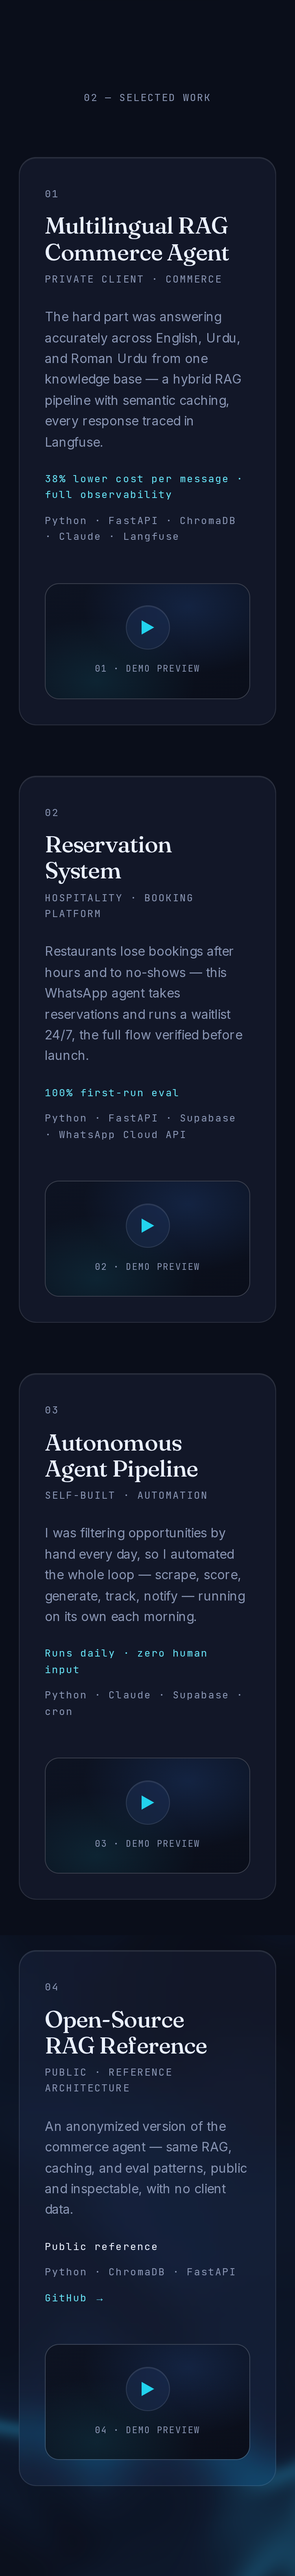
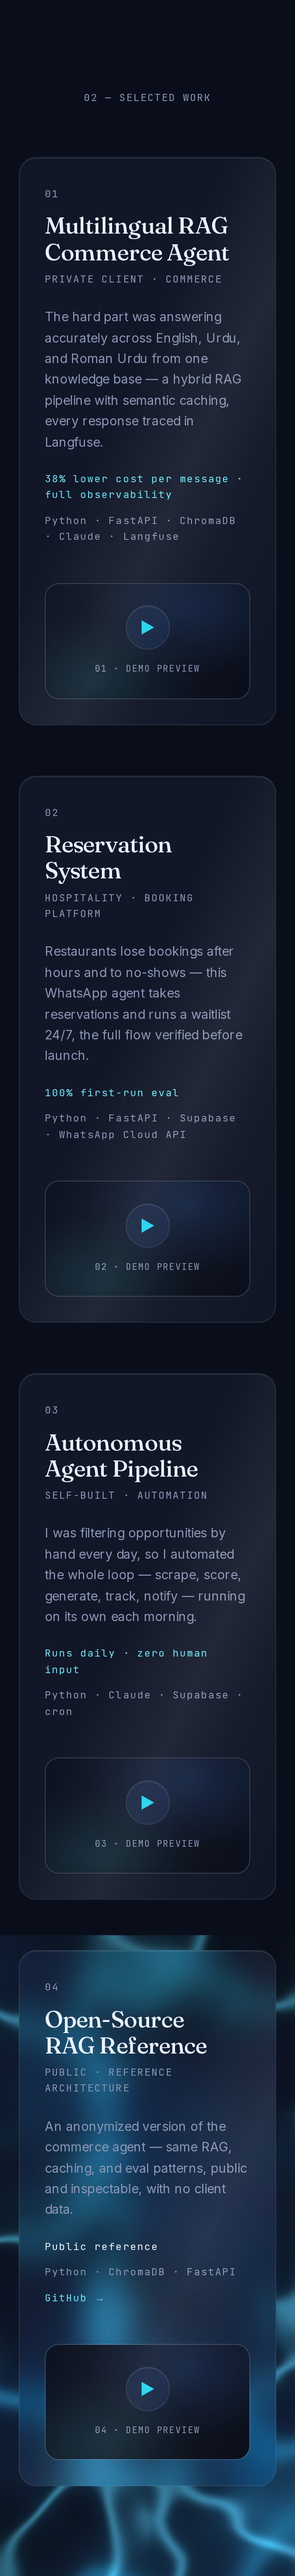
fix(portfolio-dark): mobile fluid parity + periodic glass shine
Mobile background (was a washed-out hint vs desktop)
- Full 3-tier detail on mobile (near filaments were desktop-only) and
  intensity 0.28 (~desktop's 0.30) — affordable: phone canvas has ~4x
  fewer pixels than desktop even after the DPR bump
- Mobile renders at up to 1.5x DPR (563x1218 buffer at 375px/3x) so
  filaments stay crisp instead of blurring from upscale; desktop stays
  DPR 1 (large area, soft glow)

Periodic glass shine (Proof panel + Work cards)
- Replaced the panel's continuous 14s sheen drift with a periodic
  sweep: ~1.5s soft diagonal band, then rests off-surface; panel on a
  6s cycle, Work cards on 5.5s with 1.4s stagger per card so nothing
  flashes in sync; low opacity, under the text layer on the panel
- Reduced motion: the global guard collapses the animation to a single
  instant run ending OFF-surface — no auto-shine

Verified: 00/01/02 captures desktop+375 updated, shine animation
registered on cards, 0 console errors, 0 overflow, tsc + eslint clean.

Changed region(s): [[0.0, 0.75, 1.0, 1.0]]

diff --git a/src/app/globals.css b/src/app/globals.css
@@ -393,17 +393,62 @@
   border-radius: inherit;
   background: linear-gradient(115deg, rgba(255, 255, 255, 0) 30%, rgba(255, 255, 255, 0.1) 42%, rgba(255, 255, 255, 0.03) 50%, rgba(255, 255, 255, 0) 62%), radial-gradient(55% 45% at 90% 94%, rgba(34, 211, 238, 0.09), transparent 70%);
   background-size: 260% 100%, 100% 100%;
-  background-position: 120% 0, 0 0;
-  animation: pf-sheen-slide 14s ease-in-out infinite alternate;
+  background-position: -80% 0, 0 0;
+  animation: pf-glass-shine 6s linear infinite;
   pointer-events: none;
 }
 
-@keyframes pf-sheen-slide {
-  from {
-    background-position: 120% 0, 0 0;
+/* periodic shine: a ~1.5s sweep, then the band rests off-surface for the
+   remainder of the cycle. Under reduced motion the global guard collapses
+   this to a single instant run ending off-surface — no auto-shine. */
+@keyframes pf-glass-shine {
+  0% {
+    background-position: -80% 0, 0 0;
+    animation-timing-function: cubic-bezier(0.33, 0, 0.35, 1);
   }
-  to {
-    background-position: -20% 0, 0 0;
+  25% {
+    background-position: 180% 0, 0 0;
+  }
+  100% {
+    background-position: 180% 0, 0 0;
+  }
+}
+
+/* Work cards share the shine, staggered so they never flash in sync */
+.portfolio-dark .work-card {
+  position: relative;
+  overflow: hidden;
+}
+.portfolio-dark .work-card::after {
+  content: "";
+  position: absolute;
+  inset: 0;
+  border-radius: inherit;
+  background: linear-gradient(115deg, rgba(255, 255, 255, 0) 32%, rgba(255, 255, 255, 0.07) 43%, rgba(255, 255, 255, 0.02) 50%, rgba(255, 255, 255, 0) 60%);
+  background-size: 260% 100%;
+  background-position: -80% 0;
+  animation: pf-glass-shine-solo 5.5s linear infinite;
+  pointer-events: none;
+}
+.portfolio-dark .work-card:nth-of-type(2)::after {
+  animation-delay: 1.4s;
+}
+.portfolio-dark .work-card:nth-of-type(3)::after {
+  animation-delay: 2.8s;
+}
+.portfolio-dark .work-card:nth-of-type(4)::after {
+  animation-delay: 4.2s;
+}
+@keyframes pf-glass-shine-solo {
+  0% {
+    background-position: -80% 0;
+    animation-timing-function: cubic-bezier(0.33, 0, 0.35, 1);
+  }
+  27% {
+    background-position: 180% 0;
+  }
+  100% {
+    background-position: 180% 0;
   }
 }
 

diff --git a/src/components/portfolio-dark/Ferrofluid.tsx b/src/components/portfolio-dark/Ferrofluid.tsx
@@ -166,8 +166,11 @@ export default function Ferrofluid() {
     const uScroll = gl.getUniformLocation(prog, "uScroll");
     const uMoment = gl.getUniformLocation(prog, "uMoment");
 
-    gl.uniform1f(uIntensity, mobile ? 0.18 : 0.3);
-    gl.uniform1f(uDetail, mobile ? 1 : 2);
+    // Mobile matches desktop richness: full 3-tier detail + near-equal
+    // intensity. Affordable because the phone canvas has ~4x fewer pixels
+    // than desktop even at 1.5x DPR (562x1218 vs 1440x900).
+    gl.uniform1f(uIntensity, mobile ? 0.28 : 0.3);
+    gl.uniform1f(uDetail, 2);
     gl.uniform1f(uScroll, 0);
     gl.uniform1f(uMoment, 0);
 
@@ -180,9 +183,13 @@ export default function Ferrofluid() {
     };
     if (!reduced) window.addEventListener("scroll", onScroll, { passive: true });
 
+    // Desktop: DPR 1 (large area, soft glow — extra pixels buy nothing).
+    // Mobile: up to 1.5x DPR so filaments stay crisp on 3x phone screens
+    // instead of reading washed-out from upscaling.
+    const dpr = mobile ? Math.min(1.5, window.devicePixelRatio || 1) : 1;
     const resize = () => {
-      canvas.width = canvas.clientWidth; // DPR 1 — soft background
-      canvas.height = canvas.clientHeight;
+      canvas.width = Math.round(canvas.clientWidth * dpr);
+      canvas.height = Math.round(canvas.clientHeight * dpr);
       gl.viewport(0, 0, canvas.width, canvas.height);
       gl.uniform2f(uRes, canvas.width, canvas.height);
     };
